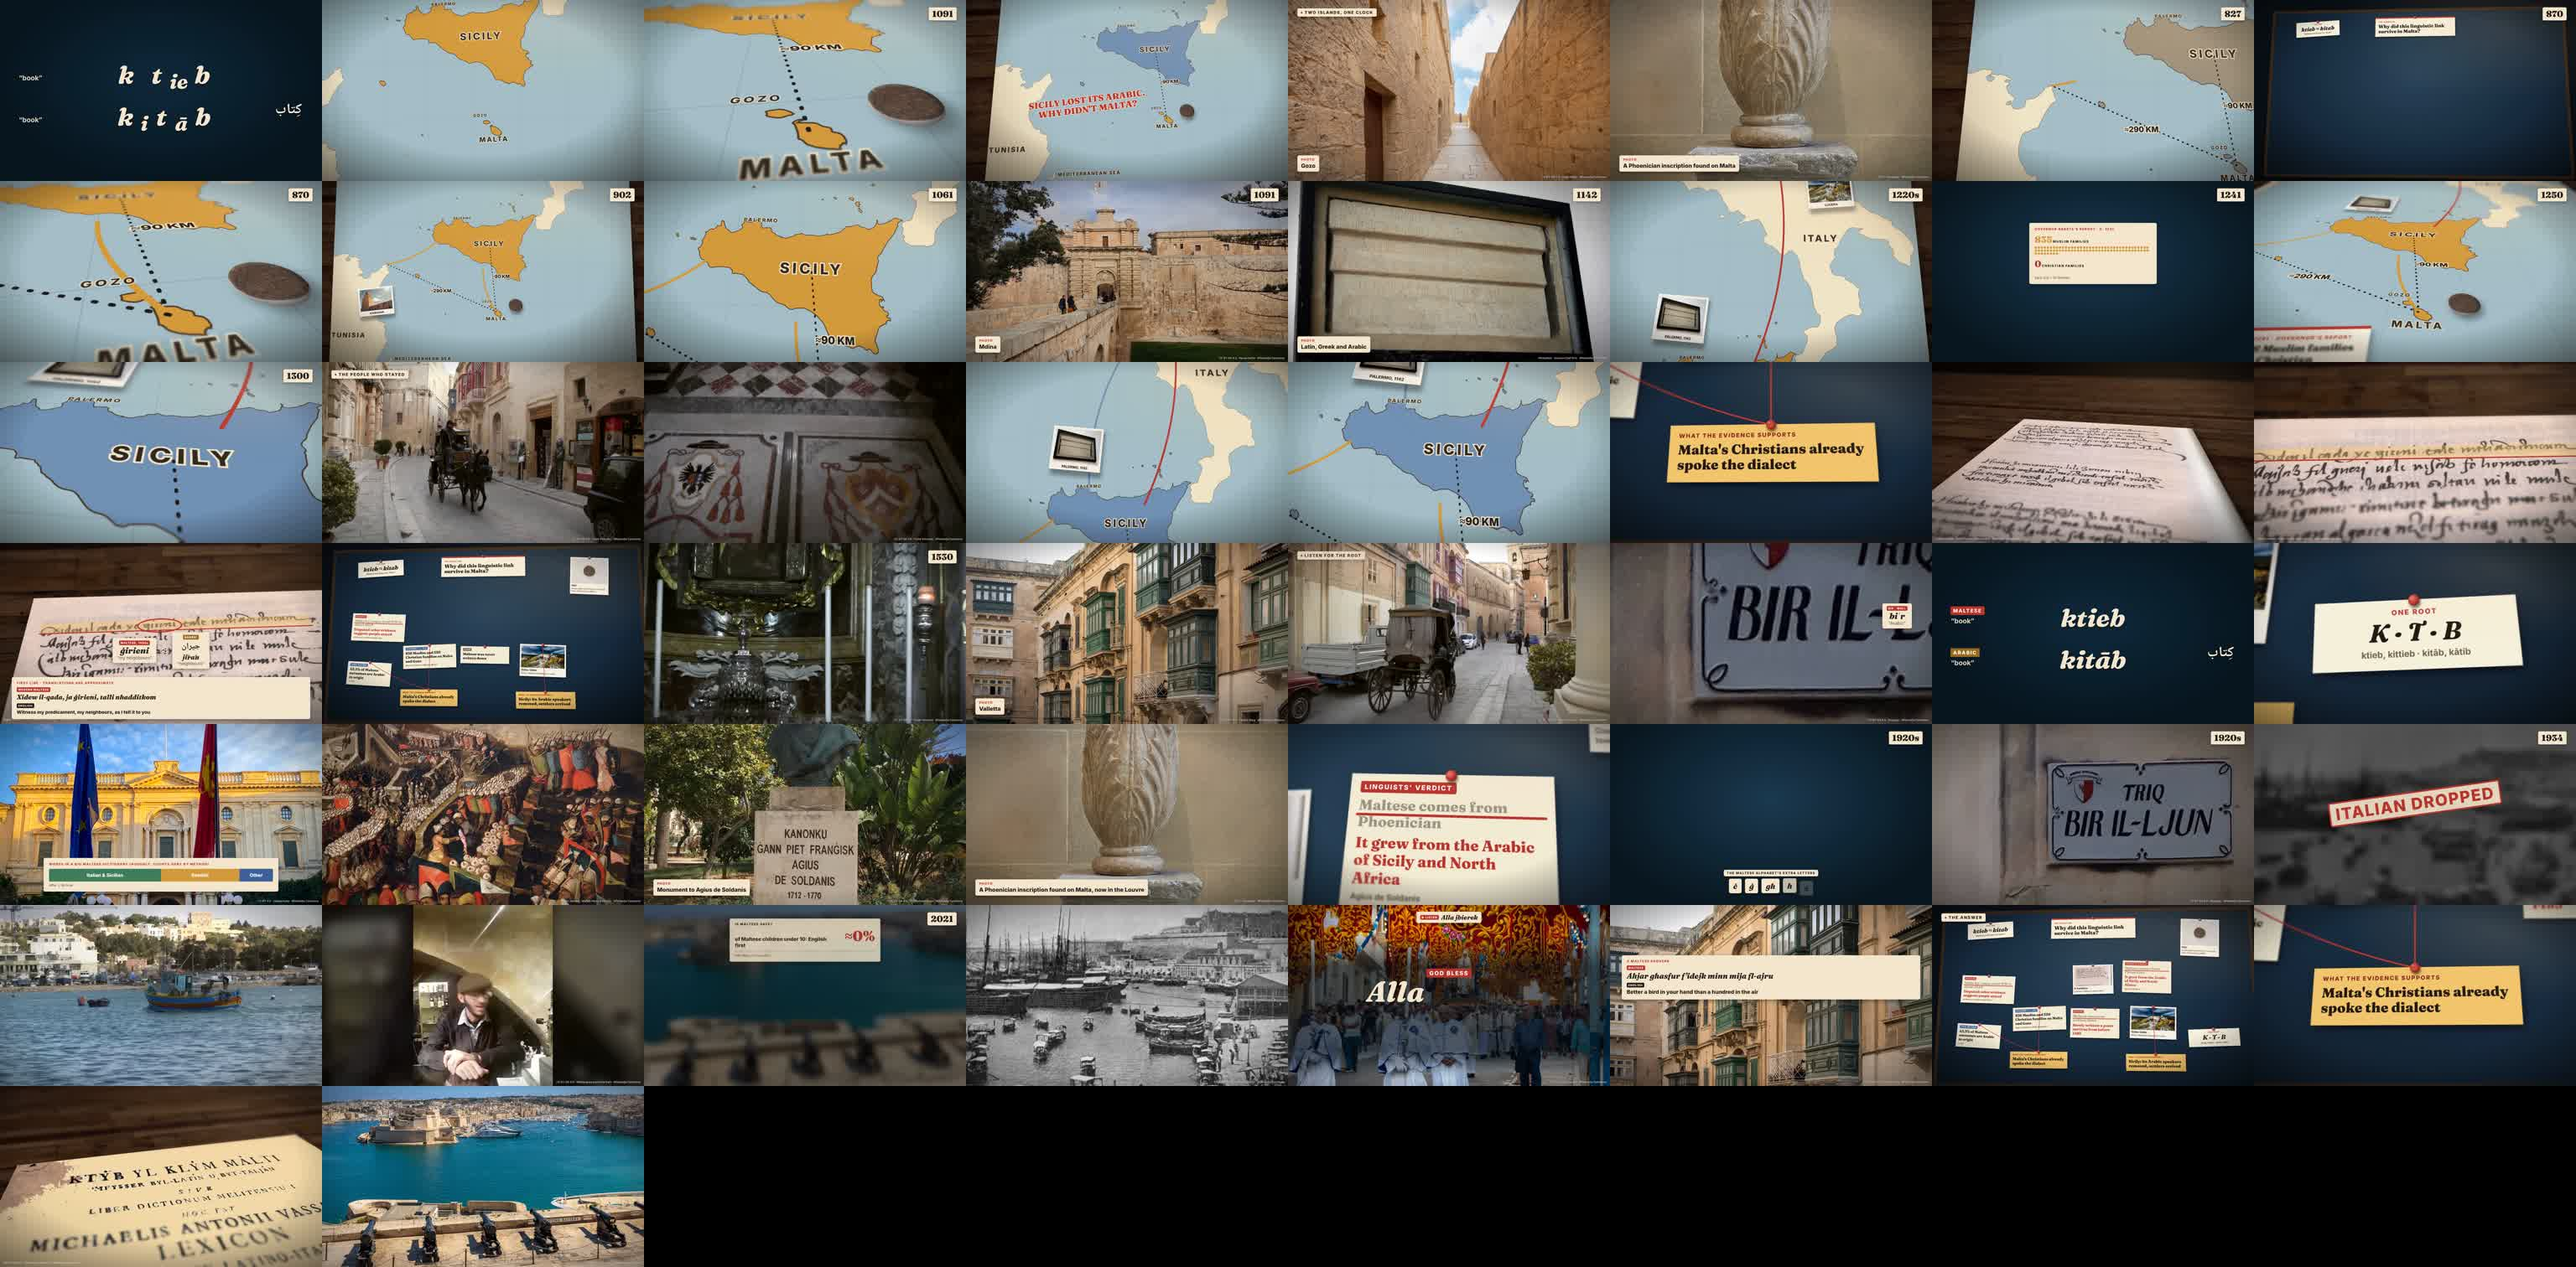
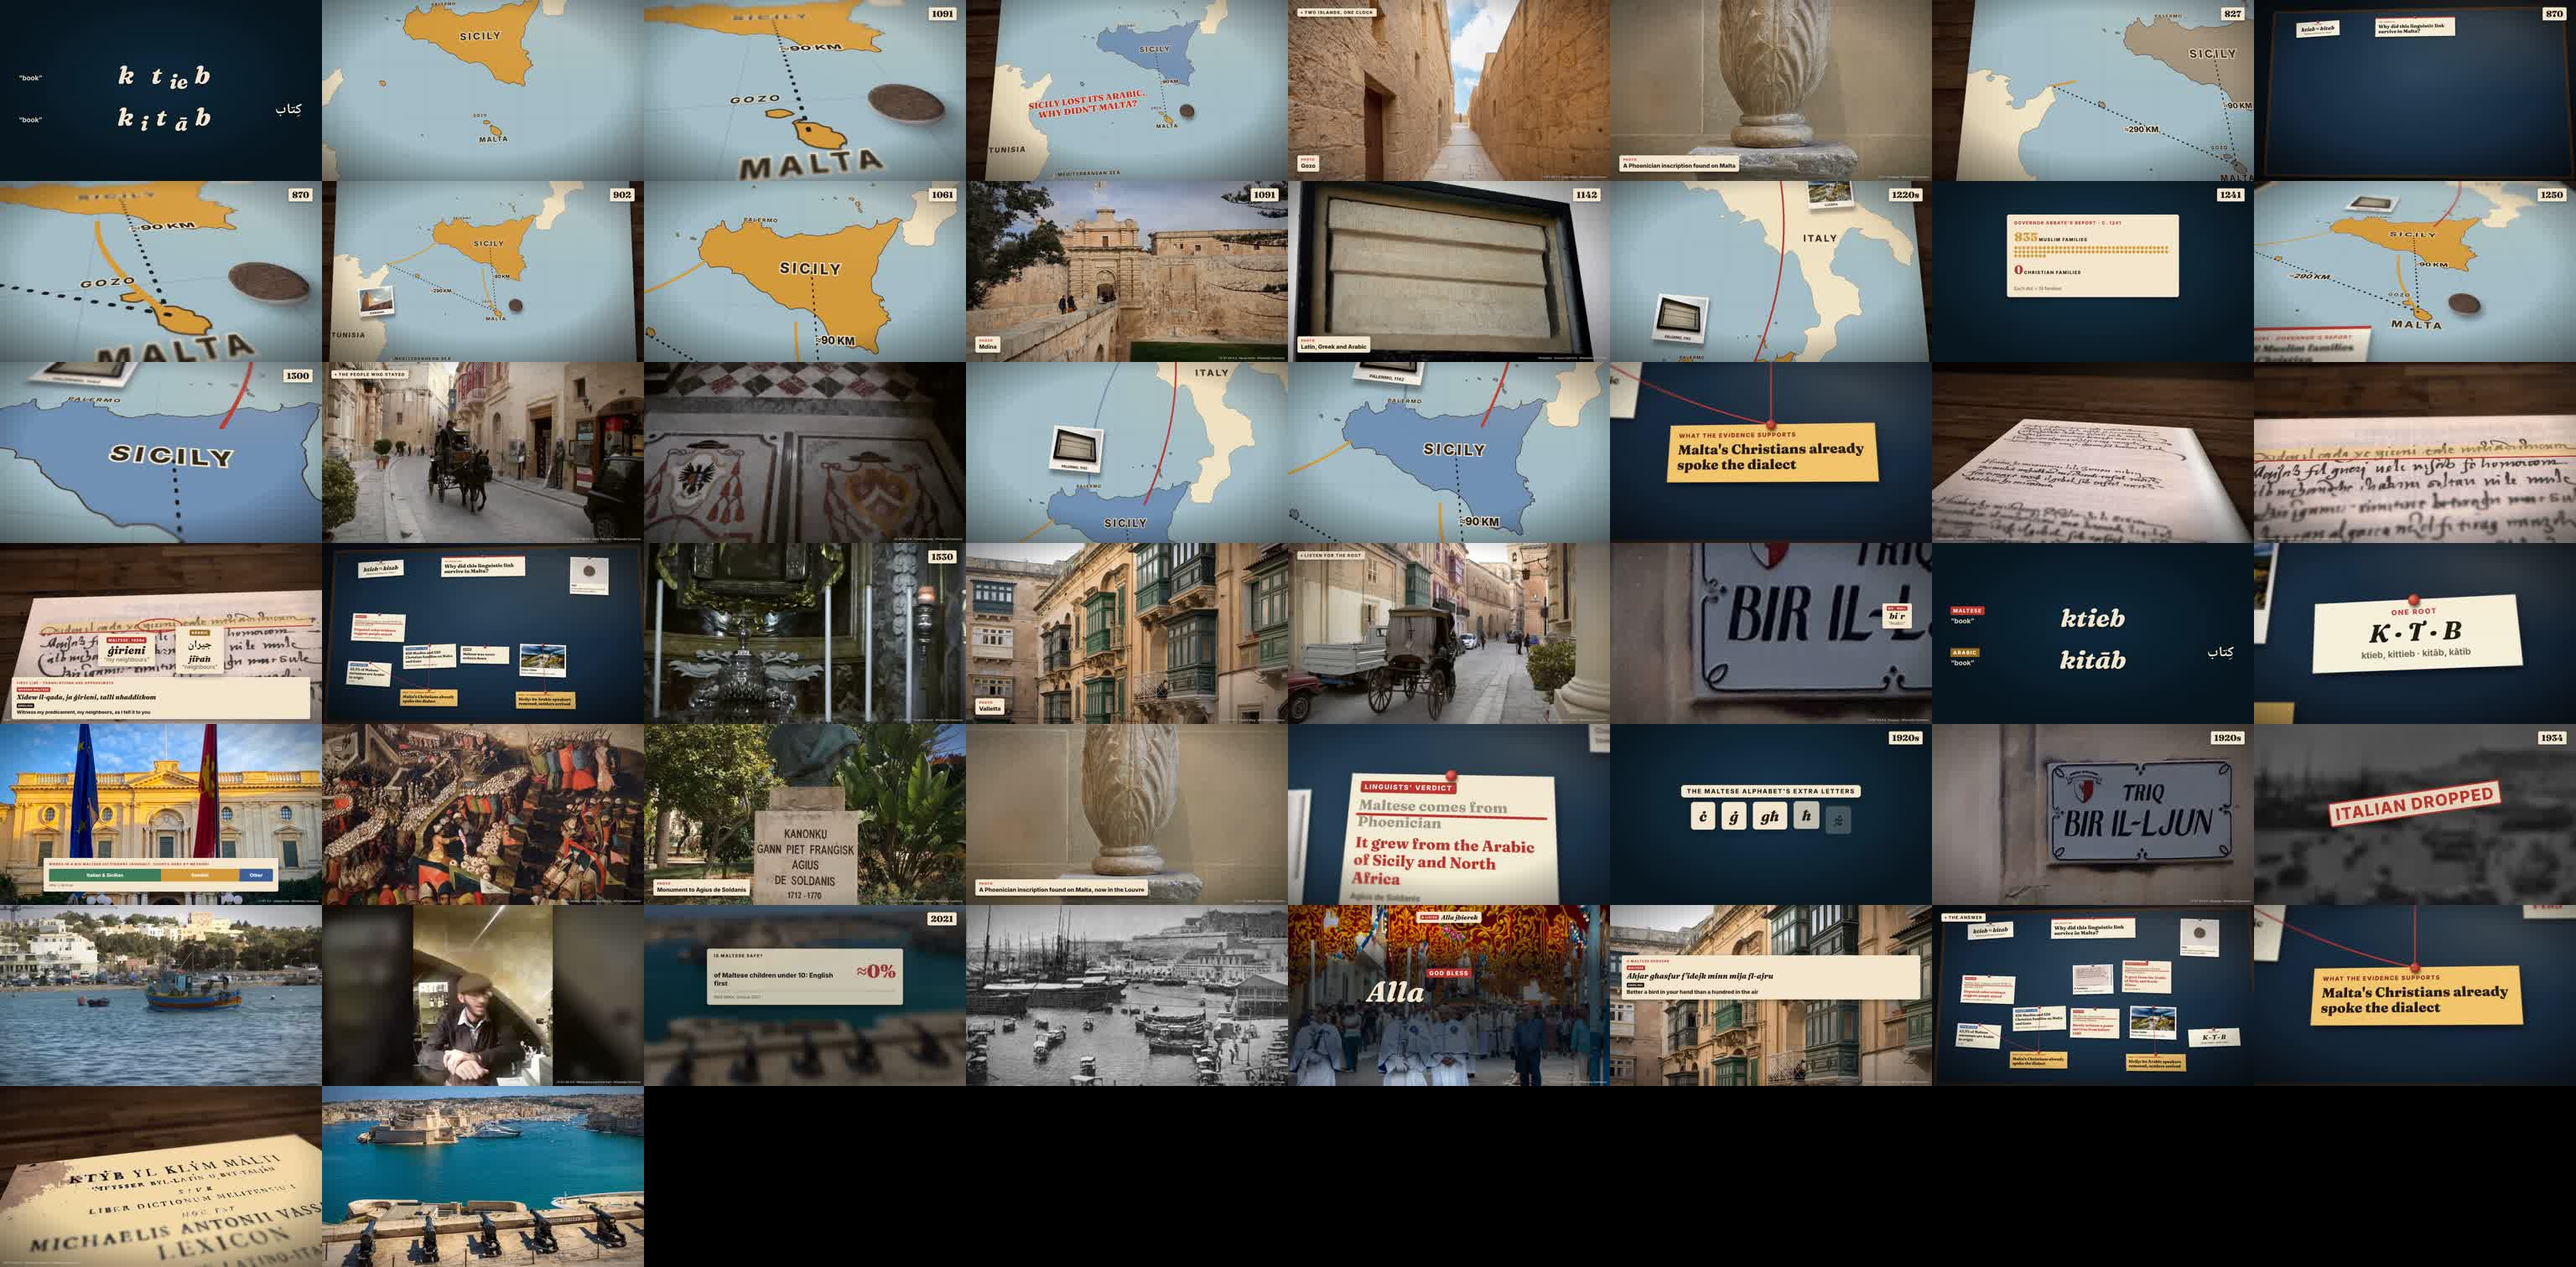
Malta v4: final QA, metadata and credits
Claude-Session: https://claude.ai/code/session_01JteZbjgJzANfm9zkD8PK4e

diff --git a/lingo/meta/longform_malta4.md b/lingo/meta/longform_malta4.md
@@ -1,0 +1,103 @@
+# YouTube metadata: Malta v4
+
+## Title
+Sicily Lost Its Arabic. Why Didn't Malta?
+(alternative for Test & compare: Why Does Maltese Sound Like Arabic?)
+
+## Description
+Malta and Sicily sit 90 km apart. Both were ruled by Arabs for more than two centuries, and both were taken by the same Norman count in 1091. Today Sicily speaks a Latin language, and Malta still says ktieb, the Arabic word for book. We put both islands on one table, build the case on an evidence board, read the oldest known text in Maltese, and listen to the roots that are still there today.
+
+Every Maltese and Arabic word you hear is a real recording by a native speaker. No AI voices for the languages. Footage marked STAND-IN on screen is not from Malta.
+
+0:00 Intro: two words, one root
+0:39 Two islands, one clock
+2:51 The people who stayed
+3:47 A poem in a notary's register
+4:44 Listen for the root
+6:05 The Language Question
+6:35 Still spoken today
+7:42 The answer
+
+Maltese speakers: which everyday word would you show an Arabic speaker first? Tell us in the comments 👇
+
+Audio credits (all via Wikimedia Commons):
+Maltese words and phrases (ktieb, familja, bonasira, professur, ħobża, kittieb, ħamsa u sittin, Alla, Alla jbierek, aħjar għasfur f'idejk minn mija fl-ajru): recorded by GħawdxiVeru for Lingua Libre, CC0
+kitāb · Arabic: "LL-Q13955 (ara)-Al-jahbaḏ-كِتَاب", spoken by Al-jahbaḏ for Lingua Libre, CC BY 4.0
+khubz · Arabic: "LL-Q13955 (ara)-Zinou2go-خُبْز", spoken by Zinou2go for Lingua Libre, CC BY-SA 3.0
+kātib · Arabic: "LL-Q13955 (ara)-Rashed Aljahdali-كاتب", spoken by Rashed Aljahdali for Lingua Libre, CC BY 4.0
+Maltese speech: "WIKITONGUES- Keith speaking Maltese" by Wikitongues and Irena Dahl, CC BY-SA 4.0
+Allāh · Arabic: "LL-Q13955 (ara)-Fjmustak-الله", spoken by Fjmustak for Lingua Libre, CC BY-SA 4.0
+Sound effect (page): "Turning a page" by planish, Public domain
+Sound effect (door): "Open and close squeaky door (Gravity Sound)" by Gravity Sound, CC BY 4.0
+Sound effect (coin): "Coin dropped on wooden floor" by ezwa, Public domain
+Sound effect (tack): "Mechanical tack" by stephan, Public domain
+Sound effect (paper): "Book paper pages assorted" by stephan, Public domain
+Sound effect (pencil): "Pencil scratchings" by gypsygirl, Public domain
+Music: "Long Note Two" by Kevin MacLeod (incompetech.com), CC BY 3.0
+Music: "Desert City" by Kevin MacLeod (incompetech.com), CC BY 3.0
+Music: "Teller of the Tales" by Kevin MacLeod (incompetech.com), CC BY 3.0
+Music: "Ossuary 6 - Air" by Kevin MacLeod (incompetech.com), CC BY 3.0
+Music: "Echoes of Time" by Kevin MacLeod (incompetech.com), CC BY 3.0
+Music: "Mesmerize" by Kevin MacLeod (incompetech.com), CC BY 3.0
+Music: "Crusade" by Kevin MacLeod (incompetech.com), CC BY 3.0
+Music: "Heartwarming" by Kevin MacLeod (incompetech.com), CC BY 3.0
+Music: "Dark Times" by Kevin MacLeod (incompetech.com), CC BY 3.0
+Music: "Lightless Dawn" by Kevin MacLeod (incompetech.com), CC BY 3.0
+
+Footage (all via Wikimedia Commons):
+Malta - Grand Harbour (Lower Barrakka Gardens) 01 (1) ies: Frank Vincentz, CC BY-SA 3.0
+Tritons' Fountain, Valletta: GrimsbyT, CC BY-SA 4.0
+Malta - Marsaxlokk - Xatt is-Sajjieda - Harbour 01 (0) ies: Frank Vincentz, CC BY-SA 3.0
+Malta - Mdina - Triq Villegaignon 01 (1) ies: Frank Vincentz, CC BY-SA 3.0
+Malta - Mdina - Pjazza San Pawl+Bishop's Palace+St. Paul's Cathedral 01 (0) ies: Frank Vincentz, CC BY-SA 3.0
+Malta - Mdina - Pjazza San Pawl - St. Paul's Cathedral in 01 (0) ies: Frank Vincentz, CC BY-SA 3.0
+The Lindisfarne Gospels- Medieval Multiculturalism - Collection in Focus - British Library (stand-in footage): British Library, CC BY 3.0
+Bringing books back to life - In the conservation studio - British Library (stand-in footage): British Library, CC BY 3.0
+Baking the Best Persian Bread in a Traditional Oven - Iranian Bakeries (stand-in footage): Street Food Tourists, CC BY 3.0
+WIKITONGUES-_Keith_speaking_Maltese: Wikitongues and Irena Dahl, CC BY-SA 4.0
+Table and desk texture: "Wood table large diff 8k (JPG)" by Rico Cilliers, Charlotte Baglioni et al. (Poly Haven), CC0
+
+Photos, paintings and documents (all via Wikimedia Commons):
+Lexicon - Vassalli - 1796: Hamelin de Guettelet, CC BY-SA 3.0
+Bread maker Valletta. Night shift: Renata Apan, CC BY-SA 4.0
+Ħobż Malti: EnriqueTabone, CC BY-SA 4.0
+Coin of Roger I, Duke of Sicily MET 30.109 001nov2014: Metropolitan Museum of Art, CC0
+Roger I de Sicilia en la batalla de Cerami, por Prosper Lafaye: Prosper Lafaye, Public domain
+De arte venandi cum avibus- BNF MS. Fr. 12400: Unknown author (BnF), Public domain
+0604 - Palermo - Cappella palatina - Iscrizione trilingue x orologio idraulico, 1142, re Ruggero - Foto Giovanni Dall'Orto, 28-Sept-2006: Giovanni Dall'Orto, Attribution
+Lucera - Fortezza Svevo-Angioina di Lucera - 202209021905: Conte Francesca, CC BY-SA 4.0
+The Minaret of the Great Mosque Okba of Kairouan, Tunisia: Monaam Ben Fredj, CC BY-SA 4.0
+Ciudadela, Victoria, isla de Gozo, Malta, 2021-08-22, DD 22: Diego Delso, CC BY-SA 4.0
+Main Gate, Mdina, Malta.01: Nenea hartia, CC BY-SA 4.0
+Streets of Mdina 2: Joseolgon, CC BY 4.0
+Peter Caxaro - Cantilena: Peter Caxaro (manuscript), Public domain
+Portrait de Jean Parisot de la Valette. G.19278: Domenico Zenoni, CC0
+Georg Braun and Frans Hogenberg, Malta, in Civitates orbis terrarium, Cologne 1597: Georg Braun and Frans Hogenberg, Public domain
+The Siege of Malta- Capture of St Elmo, 23 June 1565, by Matteo Perez d'Aleccio BHC0254: Matteo Perez d'Aleccio, Public domain
+Balconies overlooking Sappers Street Valletta: Godwin Borg, CC BY-SA 4.0
+Festa of Our Lady of Fátima, Gwardamanġa, Malta: Julian Lupyan, CC0
+Rotonda de Mosta, isla de Malta, Malta, 2021-08-25, DD 84: Diego Delso, CC BY-SA 4.0
+Triq Bir Il-Ljun street sign in Rabat (Malta): Pacopac, CC BY-SA 4.0
+Cippe de Melqart - Musée du Louvre Antiquités orientales AO 4818: Shonagon, CC0
+Monument of Giovanni Pietro Francesco Agius de Soldanis: Continentaleurope, CC BY-SA 4.0
+The National Library of Malta, Valletta: Jaakko.kulta, CC BY 4.0
+Grand Harbour Malta circ1890: Unknown author, Public domain
+Valletta, Malta's Grand Harbor: TerryDOtt, CC BY 4.0
+Drapeaux UE et Malte - La Valette: Masterdeis, CC BY-SA 4.0
+Licences: https://creativecommons.org/licenses/by-sa/4.0/ , https://creativecommons.org/licenses/by-sa/3.0/ , https://creativecommons.org/licenses/by/4.0/ , https://creativecommons.org/licenses/by/3.0/
+Narration: AI voice (Kokoro). Script, maps and research by LingoDude. Map data: Natural Earth (public domain) via world-atlas.
+
+Sources: Brincat on the history of Maltese; Wettinger on medieval Malta; the Abbate report (c. 1241); Il-Kantilena (Pietru Caxaro, before 1485), found 1966 by G. Wettinger and M. Fsadni; G. Hull (2015) on Maltese surnames; Agius de Soldanis, Della lingua punica (1750); P. Grech, Journal of Maltese Studies (1961); NSO Malta, Census 2021; Čéplö et al. (2016), Folia Linguistica. Numbers marked ≈ are approximate, and on screen we say where historians disagree.
+
+#Maltese #Malta #languages
+
+## Tags
+Maltese language, Malta, Sicily, Sicily Arabic, why does Maltese sound like Arabic, Maltese and Arabic, Siculo-Arabic, history of Maltese, Semitic languages, Arabic in Europe, Kantilena, Knights of Malta, Language Question Malta, Maltese words, language map, linguistics, LingoDude
+
+## Settings
+- Category: Education
+- Made for kids: No
+- Altered or synthetic content: Yes (AI narration voice; all Maltese and Arabic speech is real)
+- Thumbnail: lingo/out/brand/thumbL_malta3_B.png (title above); thumbL_malta3_A.png for the alternative title
+- Mid-roll ad break: 3:46 (after "…turned up in a notary's register.")
+- Video: lingo/out/malta4_v4.mp4 (gitignored; re-render with `node longform4.mjs malta4 --out malta4_v4 --workers 2`)
